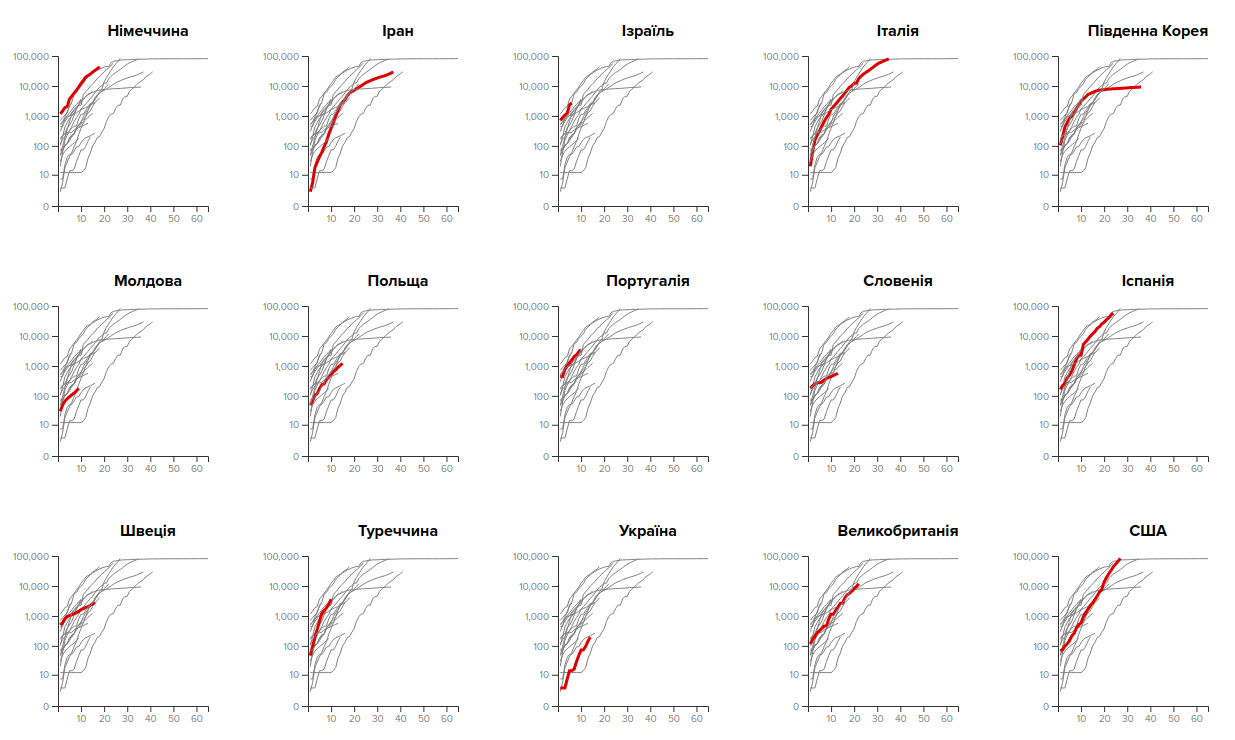
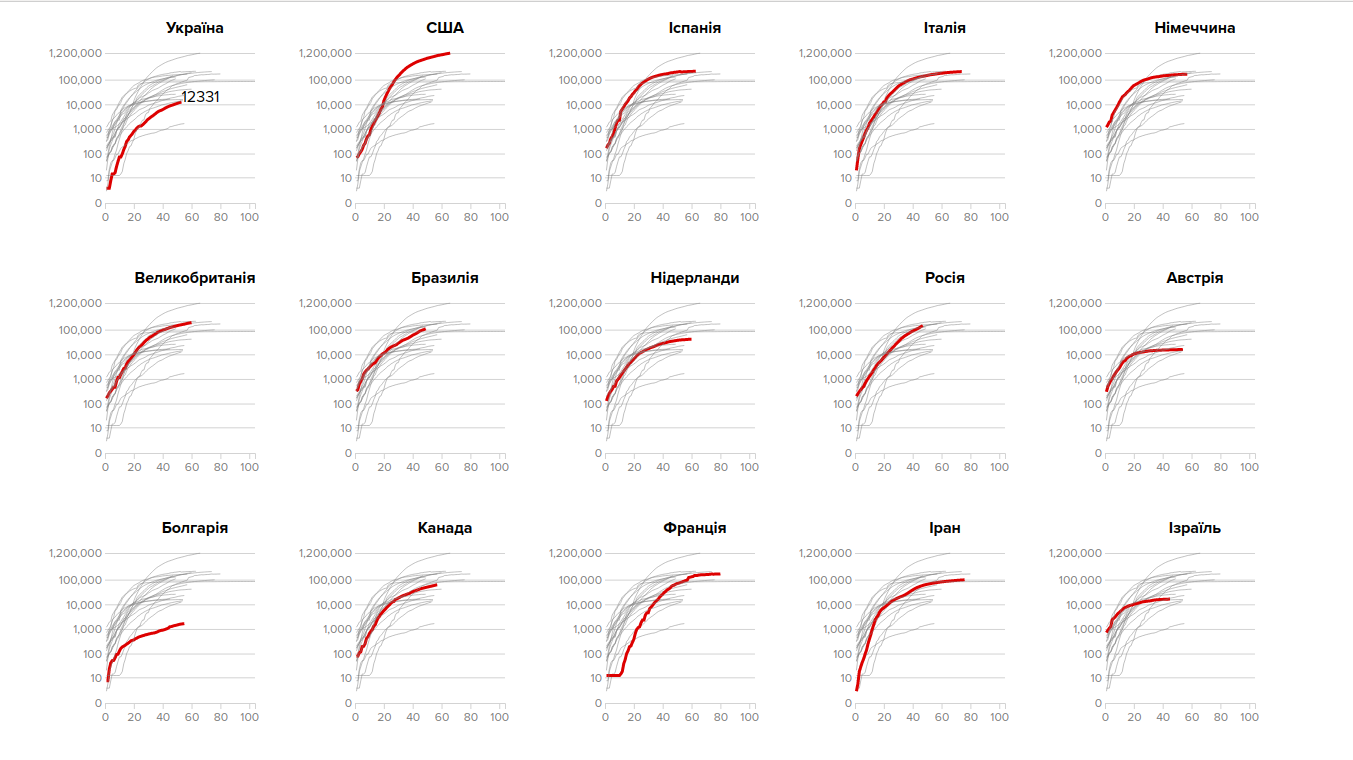
оновила дані

diff --git a/js/main.js b/js/main.js
@@ -1,8 +1,6 @@
-const target_countries = ["Ukraine", "US", "Spain", "Italy", "Germany", "United Kingdom", "Brazil", "Netherlands", "Russia", "Austria", "Bulgaria", "Canada", "France",
-    "Iran", "Israel", "Turkey", "Poland", "China", "Portugal", "Sweden"];
+const target_countries = ["Ukraine", "US", "Spain", "Italy", "Germany", "United Kingdom", "Brazil", "Netherlands", "Russia", "Belarus", "Austria", "Bulgaria", "Canada", "France", "Iran", "Israel", "Turkey", "Poland", "Sweden", "China"];
 
-const translated_countries = ["Україна", "США", "Іспанія", "Італія", "Німеччина", "Великобританія", "Бразилія", "Нідерланди", "Росія", "Австрія", "Болгарія", "Канада",  "Франція",
-    "Іран", "Ізраїль", "Туреччина", "Польща", "Китай", "Португалія", "Швеція"];
+const translated_countries = ["Україна", "США", "Іспанія", "Італія", "Німеччина", "Великобританія", "Бразилія", "Нідерланди", "Росія", "Білорусь", "Австрія", "Болгарія", "Канада",  "Франція",  "Іран", "Ізраїль", "Туреччина", "Польща",  "Швеція", "Китай"];
 
 Promise.all([
     d3.csv("https://raw.githubusercontent.com/CSSEGISandData/COVID-19/master/csse_covid_19_data/csse_covid_19_time_series/time_series_covid19_confirmed_global.csv"),

diff --git a/js/growth_speed.js b/js/growth_speed.js
@@ -2,14 +2,14 @@
     const margin = {top: 50, left: 60, bottom: 50, right: 50};
     const height = 350;
 
-    const sortArray = ["Ukraine", "Turkey", "Poland", "Spain"];
-    const translatedArray = ["Україна", "Туреччина", "Польща", "Іспанія"];
+    const sortArray = ["Ukraine", "Turkey", "Poland", "Russia"];
+    const translatedArray = ["Україна", "Туреччина", "Польща", "Росія"];
 
     // const sortArray = ["Sweden", "Ukraine"];
     // const translatedArray = ["Швеція", "Україна"];
 
     const colorCountry = d3.scaleOrdinal()
-        .domain(["Ukraine", "Turkey", "Poland", "Spain", "Sweden"])
+        .domain(["Ukraine", "Turkey", "Poland", "Russia", "Sweden"])
         .range(["red", "#333", "blue", "green", "blue"]);
 
     const input = files.filter(function(d) { return sortArray.includes(d["Country/Region"]) });
@@ -58,7 +58,7 @@
 
         var xScale = d3.scaleLinear()
             .domain([1, max_day])
-            .range([0, width]);
+            .range([0, width-20]);
 
         var line = d3.line()
             .x(function (d, i) {
